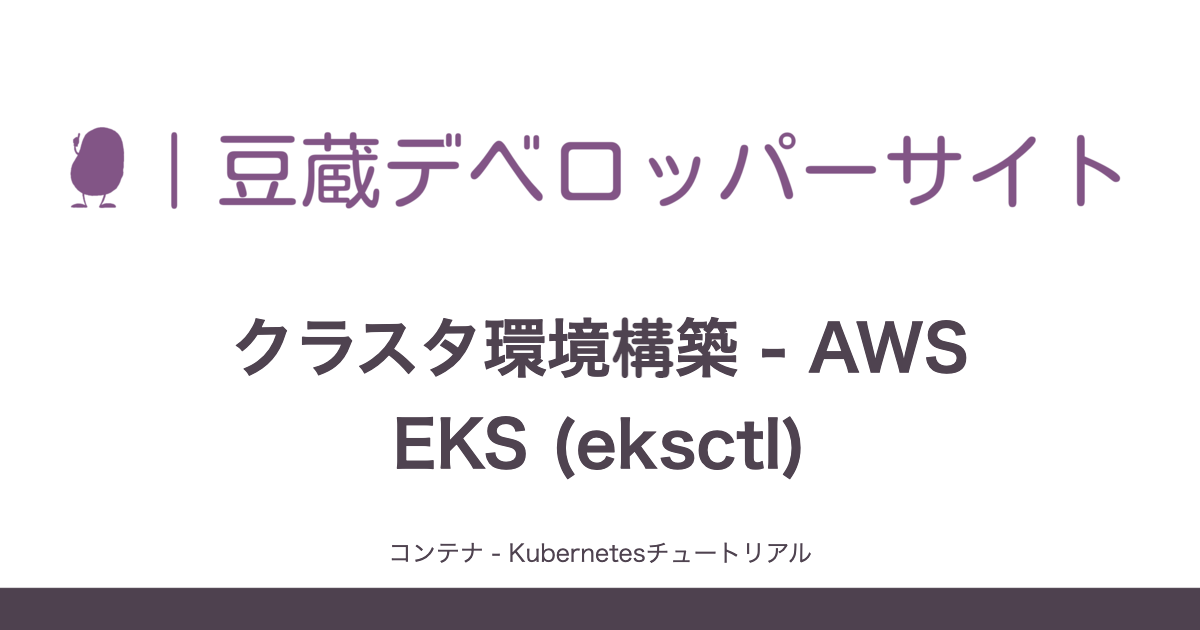
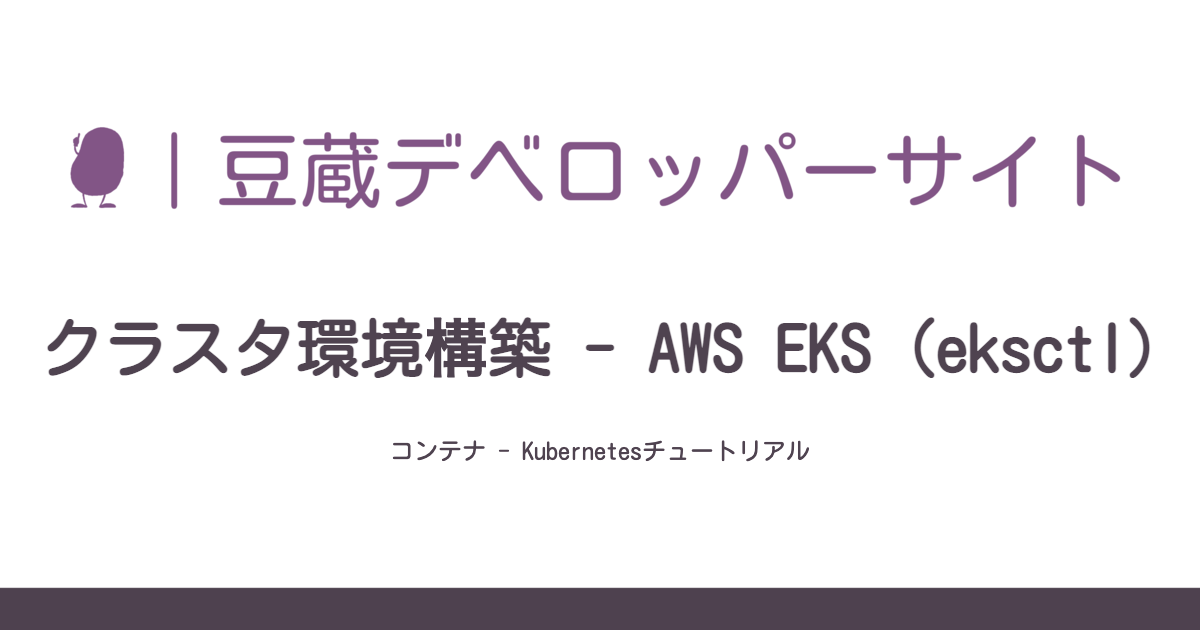
Add tag links to top page (#194)
* Add tag list to top page

* Update title

* Add OGP images for social media

Changed region(s): [[0.0308, 0.4825, 0.9558, 0.6032], [0.3083, 0.6635, 0.6783, 0.754], [0.3392, 0.8444, 0.6783, 0.9048]]

diff --git a/src/sass/style.scss b/src/sass/style.scss
@@ -14,7 +14,7 @@
 //  font-display: swap;
 //}
 
-@import url("https://cdn.jsdelivr.net/npm/@mdi/font@6.5.95/css/materialdesignicons.min.css");
+@import url("https://cdn.jsdelivr.net/npm/@mdi/font@6.7.96/css/materialdesignicons.min.css");
 @import url("https://cdnjs.cloudflare.com/ajax/libs/Primer/19.2.0/tooltips.min.css");
 @import url("https://cdnjs.cloudflare.com/ajax/libs/Primer/19.2.0/labels.min.css");
 @import url("https://cdnjs.cloudflare.com/ajax/libs/Primer/19.2.0/alerts.min.css");

diff --git a/11ty/tag-list.js b/11ty/tag-list.js
@@ -10,6 +10,7 @@ module.exports = (collection) => {
           case 'nav':
           case 'pages':
           case 'no-page':
+          case 'posts':
             return false;
         }
 
@@ -21,5 +22,5 @@ module.exports = (collection) => {
       }
     }
   });
-  return [...tagSet];
+  return [...tagSet].sort();
 };

diff --git a/src/posts/blogs/2022/0530_junit5-extension.md b/src/posts/blogs/2022/0530_junit5-extension.md
@@ -1,7 +1,7 @@
 ---
 title: JUnit5のExtension実装 - テストライフサイクルコールバックと引数の解決
 author: toshio-ogiwara
-tags: [テスト]
+tags: [テスト, "JUnit"]
 date: 2022-05-30
 ---
 JUnit5がリリースされてから5年近く経ちましたが、皆さんはもう乗り換えましたか？私も遅ればせながら1年くらい前から本格的に使い始めましたがJUnit5便利ですよね。@Nestedのテストのカテゴリ化や@ParameterizedTestによるパラメタライズドテストなどJUnit5から入った便利な機能はいくつもありますが、その中でも筆者が特に気に入っているのはExtensionによるテストライフサイクルコールバックの拡張と引数の解決です。どちらもその仕組みを使わなくてもやりたいことは実現できたりしますが、この拡張機能を使うことでただでさえゴチャゴチャしがちなテストコードをスッキリさせることができます。

diff --git a/src/posts/blogs/2022/0508_flagger-nginx-canary.md b/src/posts/blogs/2022/0508_flagger-nginx-canary.md
@@ -2,7 +2,7 @@
 title: Flagger と Ingress Nginx でカナリアリリースをする
 author: noboru-kudo
 date: 2022-05-08
-tags: ["k8s", "container", "CI/CD"]
+tags: ["k8s", "container", "CI/CD", "Flagger"]
 ---
 
 Kubernetesはデフォルトではローリングアップデート(RollingUpdate)とPod再生成(Recreate)をデプロイ時の戦略として利用できます。

diff --git a/src/posts/msa/microprofile/ext02-helidon-testing.md b/src/posts/msa/microprofile/ext02-helidon-testing.md
@@ -2,7 +2,7 @@
 title: Helidon Tips - Helidon MP Testing with JUnit5を使ってみる
 author: toshio-ogiwara
 date: 2022-04-06
-tags: ["逆張りのMicroProfile", helidon]
+tags: ["逆張りのMicroProfile", helidon, "JUnit"]
 prevPage: ./src/posts/msa/microprofile/ext01-helidon-logback.md
 nextPage: ./src/posts/msa/microprofile/ext03-helidon-rest-testing.md
 ---

diff --git a/src/posts/blogs/2022/0515_flagger-nginx-abtesting.md b/src/posts/blogs/2022/0515_flagger-nginx-abtesting.md
@@ -2,7 +2,7 @@
 title: Flagger と Ingress Nginx でA/Bテストをする
 author: noboru-kudo
 date: 2022-05-15
-tags: ["k8s", "container", "CI/CD"]
+tags: ["k8s", "container", "CI/CD", "Flagger"]
 ---
 
 前回は、[Flagger](https://flagger.app/)とNginxのIngress Controllerを使ってカナリアリリースを試しました。

diff --git a/src/posts/blogs/2022/0517_servicemesh.md b/src/posts/blogs/2022/0517_servicemesh.md
@@ -2,7 +2,7 @@
 title: サービスメッシュが解決しようとしている課題 
 author: shigeki-shoji
 date: 2022-05-17
-tags: [k8s, container]
+tags: [k8s, container, msa]
 ---
 
 この記事では、サービスメッシュがどのような課題を解決しようとしているかについて概説します。

diff --git a/src/posts/blogs/2022/0525_strimzi-kafka-operators.md b/src/posts/blogs/2022/0525_strimzi-kafka-operators.md
@@ -1,7 +1,7 @@
 ---
 title: Strimzi - Kubernetes で Kafka を運用するための Operators
 author: masahiro-kondo
-tags: [k8s, container]
+tags: [k8s, container, Kafka]
 date: 2022-05-25
 ---
 

diff --git a/src/posts/blogs/2022/0505_backstage-catalog.md b/src/posts/blogs/2022/0505_backstage-catalog.md
@@ -1,6 +1,7 @@
 ---
 title: Backstageで開発者ポータルサイトを構築する - カタログ作成
 author: noboru-kudo
+tags: [Backstage]
 date: 2022-05-05
 ---
 

diff --git a/src/posts/blogs/2022/0606_bumpup-java17-part1.md b/src/posts/blogs/2022/0606_bumpup-java17-part1.md
@@ -1,6 +1,7 @@
 ---
 title: Java17にBump upしてみた - 使った/使わなかった新機能(前編)
 author: toshio-ogiwara
+tags: [java]
 date: 2022-06-06
 ---
 

diff --git a/src/posts/blogs/2022/0613_bumpup-java17-part2.md b/src/posts/blogs/2022/0613_bumpup-java17-part2.md
@@ -1,6 +1,7 @@
 ---
 title: Java17にBump upしてみた - 使った/使わなかった新機能(後編)
 author: toshio-ogiwara
+tags: [java]
 date: 2022-06-13
 ---
 
